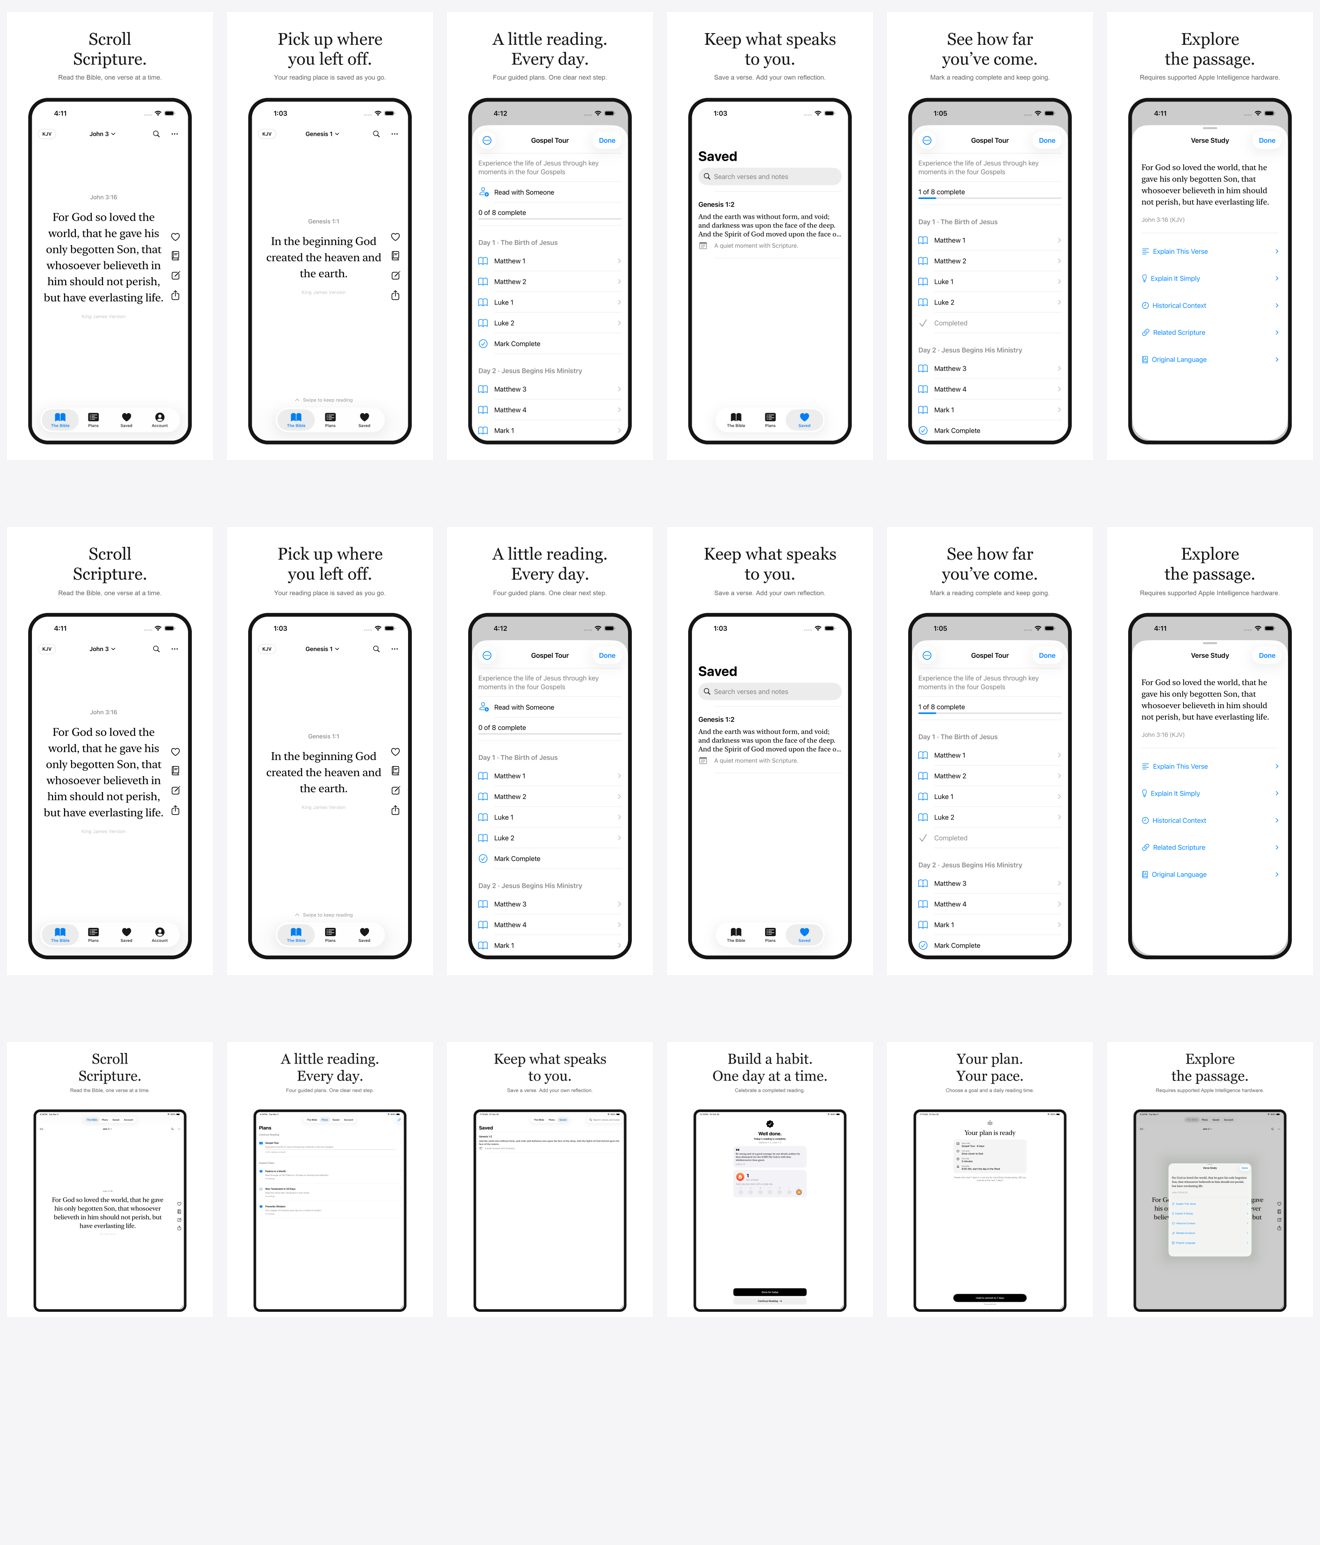
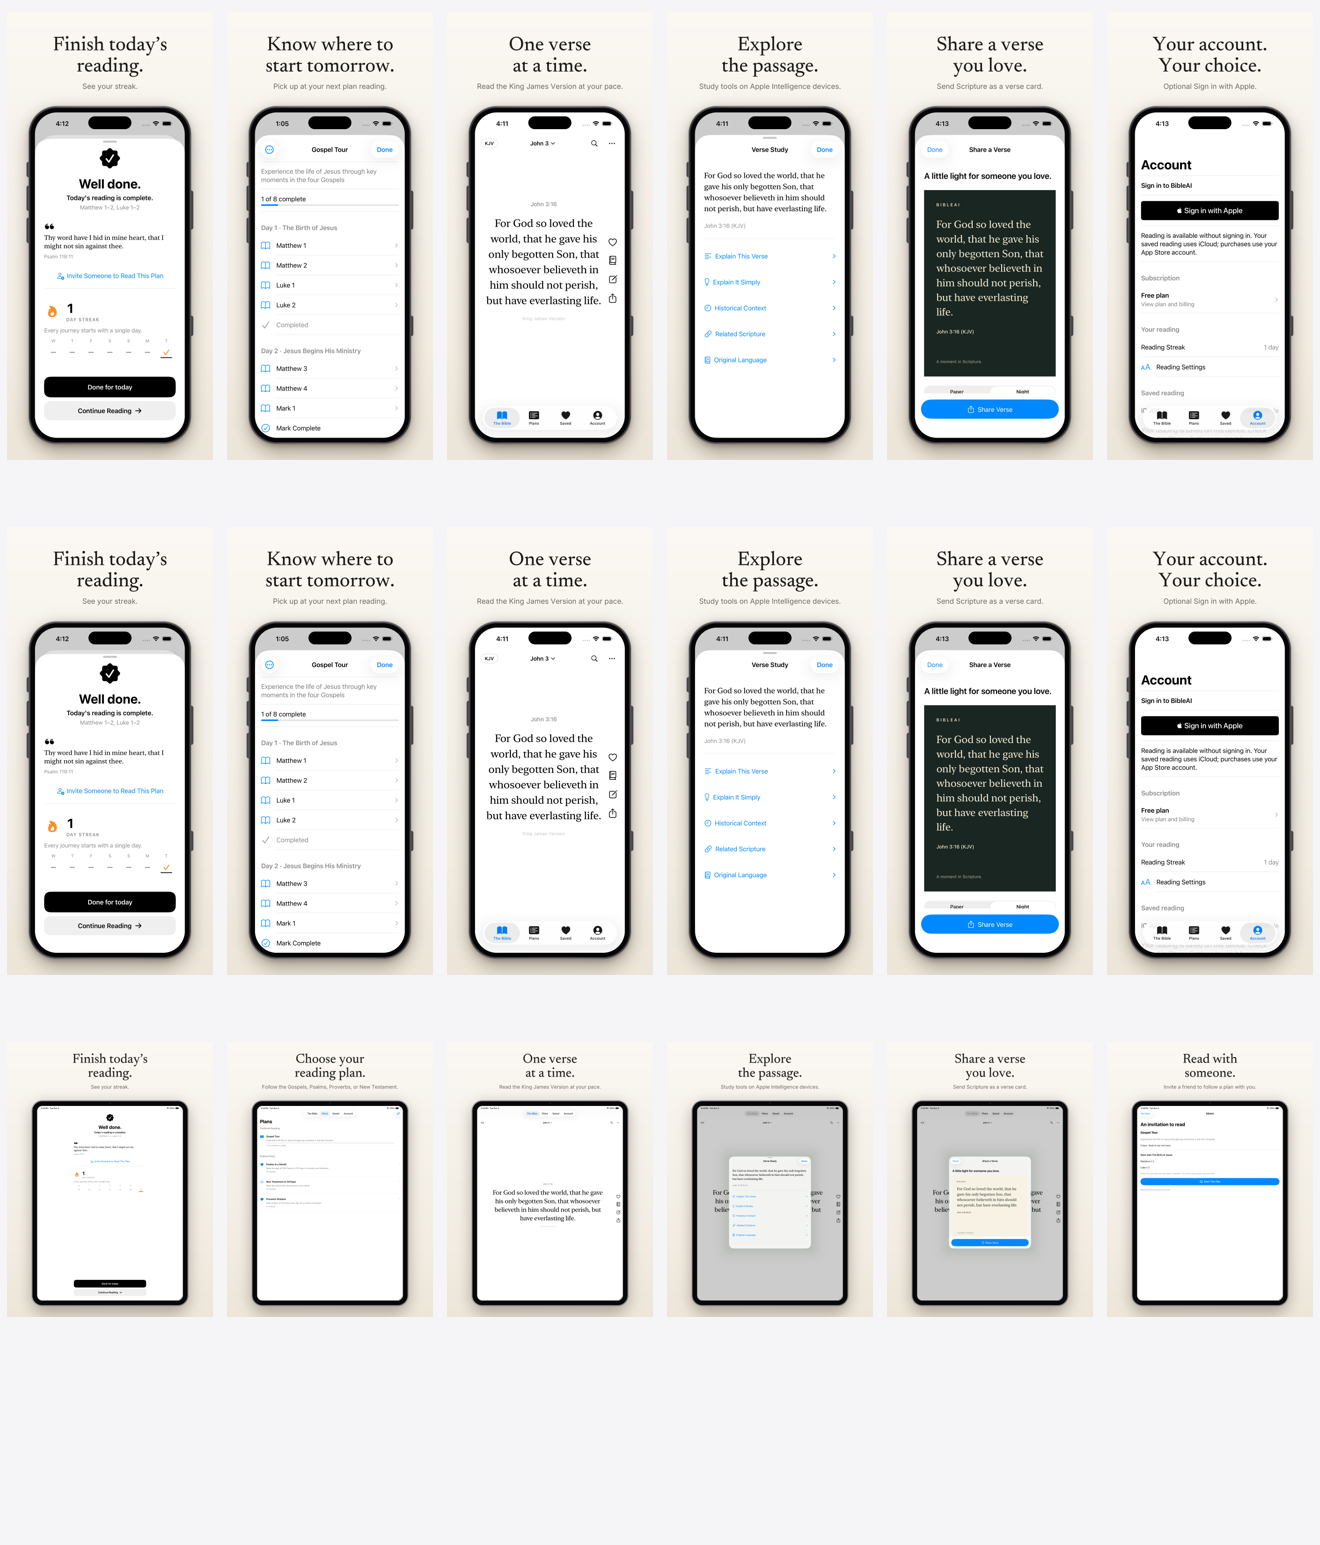
docs: refresh the listing preview with the submitted screenshots

diff --git a/docs/aso/creative-src/render_pro.py b/docs/aso/creative-src/render_pro.py
@@ -163,4 +163,11 @@ if __name__ == '__main__':
     kinds = sys.argv[4].split(',') if len(sys.argv) > 4 else ['iphone', 'medium', 'ipad']
     allp = []
     for k in kinds: allp += render(k)
+    if kinds == ['iphone', 'medium', 'ipad']:
+        board = Image.new('RGB', (1320, 1545), '#F5F5F7')
+        for index, screenshot in enumerate(allp):
+            with Image.open(screenshot) as shot:
+                shot.thumbnail((206, 490))
+                board.paste(shot, ((index % 6) * 220 + 7, (index // 6) * 515 + 12))
+        board.save(OUT / 'preview-board.png')
     print('\n'.join(map(str, allp)))
